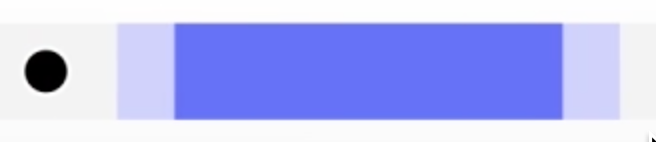
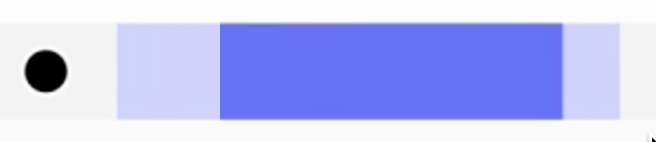
slightly better back button. Centred home page blocks in small view, pushy and accountant tests

Changed region(s): [[0.2439, 0.1408, 0.3354, 0.8451]]

diff --git a/resources/public/intro.html b/resources/public/intro.html
@@ -2,7 +2,7 @@
     statistical formula to combine data on these risk factors for all the children a hospital has treated over the
     previous three years giving a <b>predicted range</b> for the overall proportion of survivors for that specific
     hospital and time period. The audit body then compares the survival rate achieved by a hospital with its predicted range.</p><p>If you&#x27;d like to know how the predicted range is calculated, you can watch our 3 minute video in the <a href="/faqs.html">Everything Else</a> section.</p><p>If that hospital’s survival rate is within the ‘predicted range’, its results are in line with what we expect.
-     For more information about how the NHS monitors survival rates see the <a href="/faqs.html">Everything Else</a> section.</p><div class="bg-danger"><p>IMPORTANT! The predicted range depends on the types of patients treated at that hospital over that time period – so each hospital will have a different predicted range and its predicted range will vary from year to year.</p><p>That is why we only compare a hospital’s survival rate to its predicted range (from the statistical formula) and not to survival rates at other hospitals.</p></div></div></section></section><section id="4" class="col-sm-8 pull-left"><h2>What this site cannot do</h2><section class="row"><div class="col-lg-12"><p><b>This site cannot help parents make decisions about their child’s treatment.</b> If you are concerned about your child’s treatment plan <b>please speak with your child’s cardiologist or surgeon</b>. You can also access the support available from national charities such as the <a href="http://www.chfed.org.uk/documents/2012/11/second-opinion-factsheet.pdf" target="_blank">Children’s Heart Federation</a> or <a href="http://www.lhm.org.uk/" target="_blank">Little Hearts Matter</a> or local charities for your specialist children’s hospital (see <a href="/faq/3/2.html">further charity resources</a>). These guides on <a href="http://www.chfed.org.uk/documents/2015/02/talking-to-doctors-pdf-factsheet.pdf" target="_blank">speaking to your child’s surgeon</a> or <a href="http://www.chfed.org.uk/documents/2012/11/second-opinion-factsheet.pdf" target="_blank">seeking a second opinion</a>, written by the Children’s Heart Federation, might also be helpful.</p><p>We know that there is much more to children’s heart surgery than survival to 30 days after surgery, such as much longer term survival and quality of life after surgery. Although this information is not routinely available at the moment, we are actively researching how to collect, interpret and publish this data. (See <a>prais2.core$href@1c7f6e96/faq/2/3What about longer term survival and quality of life?</a>.) </p></div></section></section><section id="5" class="col-sm-8 pull-left"><h2>What this site can do</h2><section class="row"><div class="col-lg-12"><p>This site can help you interpret currently published survival data on children’s heart surgery and explore recent results by hospital.</p></div></section></section></div></div></div><div class="container-fluid partners"><div class="row"><p style="color:white;" class="col-sm-offset-1 col-sm-2">About us</p><img src="/assets/ucl-logo.png" class="img-responsive col-sm-2 collab-logo"/><img src="/assets/camlogo.png" class="img-responsive col-sm-2 collab-logo"/><img src="/assets/KCLlogo.gif" class="img-responsive col-sm-1 collab-logo"/><img src="/assets/sas-logo.png" class="img-responsive col-sm-1 collab-logo"/><img src="/assets/chf-logo.png" class="img-responsive col-sm-1 collab-logo"/></div><div class="row footer"><h3>Funding acknowledgement</h3><p>This project was funded by the National Institute for Health Research Health Services and Delivery Research Programme
+     For more information about how the NHS monitors survival rates see the <a href="/faqs.html">Everything Else</a> section.</p><div class="bg-danger"><p>IMPORTANT! The predicted range depends on the types of patients treated at that hospital over that time period – so each hospital will have a different predicted range and its predicted range will vary from year to year.</p><p>That is why we only compare a hospital’s survival rate to its predicted range (from the statistical formula) and not to survival rates at other hospitals.</p></div></div></section></section><section id="4" class="col-sm-8 pull-left"><h2>What this site cannot do</h2><section class="row"><div class="col-lg-12"><p><b>This site cannot help parents make decisions about their child’s treatment.</b> If you are concerned about your child’s treatment plan <b>please speak with your child’s cardiologist or surgeon</b>. You can also access the support available from national charities such as the <a href="http://www.chfed.org.uk/documents/2012/11/second-opinion-factsheet.pdf" target="_blank">Children’s Heart Federation</a> or <a href="http://www.lhm.org.uk/" target="_blank">Little Hearts Matter</a> or local charities for your specialist children’s hospital (see <a href="/faq/3/2.html">further charity resources</a>). These guides on <a href="http://www.chfed.org.uk/documents/2015/02/talking-to-doctors-pdf-factsheet.pdf" target="_blank">speaking to your child’s surgeon</a> or <a href="http://www.chfed.org.uk/documents/2012/11/second-opinion-factsheet.pdf" target="_blank">seeking a second opinion</a>, written by the Children’s Heart Federation, might also be helpful.</p><p>We know that there is much more to children’s heart surgery than survival to 30 days after surgery, such as much longer term survival and quality of life after surgery. Although this information is not routinely available at the moment, we are actively researching how to collect, interpret and publish this data. (See <a>prais2.core$href@25d911a/faq/2/3What about longer term survival and quality of life?</a>.) </p></div></section></section><section id="5" class="col-sm-8 pull-left"><h2>What this site can do</h2><section class="row"><div class="col-lg-12"><p>This site can help you interpret currently published survival data on children’s heart surgery and explore recent results by hospital.</p></div></section></section></div></div></div><div class="container-fluid partners"><div class="row"><p style="color:white;" class="col-sm-offset-1 col-sm-2">About us</p><img src="/assets/ucl-logo.png" class="img-responsive col-sm-2 collab-logo"/><img src="/assets/camlogo.png" class="img-responsive col-sm-2 collab-logo"/><img src="/assets/KCLlogo.gif" class="img-responsive col-sm-1 collab-logo"/><img src="/assets/sas-logo.png" class="img-responsive col-sm-1 collab-logo"/><img src="/assets/chf-logo.png" class="img-responsive col-sm-1 collab-logo"/></div><div class="row footer"><h3>Funding acknowledgement</h3><p>This project was funded by the National Institute for Health Research Health Services and Delivery Research Programme
 (project number 14/19/13)</p><h3>Department of Health disclaimer</h3><p>The views and opinions expressed therein are those of the authors and do not necessarily reflect those of the Health Services and Delivery Research Programme, NIHR, NHS or the Department of Health.</p></div></div></div></div><script>(function(i,s,o,g,r,a,m){i['GoogleAnalyticsObject']=r;i[r]=i[r]||function(){
 
 (i[r].q=i[r].q||[]).push(arguments)},i[r].l=1*new Date();a=s.createElement(o),

diff --git a/sass/_home.scss b/sass/_home.scss
@@ -60,7 +60,7 @@
 
 .home-nav.well.intro {
     color: #888888; //$intro;
-    margin: 20px 0 10px;
+    margin: 20px auto 10px auto;
     box-shadow: 0px -12px 11px 2px rgba(200,200,200,0.5);
     .active {
       background-color: $intro;
@@ -69,7 +69,7 @@
 }
 .home-nav.well.data {
     color: #888888; //$intro;
-    margin: 20px 0 10px;
+    margin: 20px auto 10px auto;
     box-shadow: 0px -12px 11px 2px rgba(200,200,200,0.5);
     .active {
       background-color: $data;
@@ -78,7 +78,7 @@
 }
 .home-nav.well.faqs {
     color: #888888; //$intro;
-    margin: 20px 0 10px;
+    margin: 20px auto 10px auto;
     box-shadow: 0px -12px 11px 2px rgba(200,200,200,0.5);
     .active {
       background-color: $faqs;
